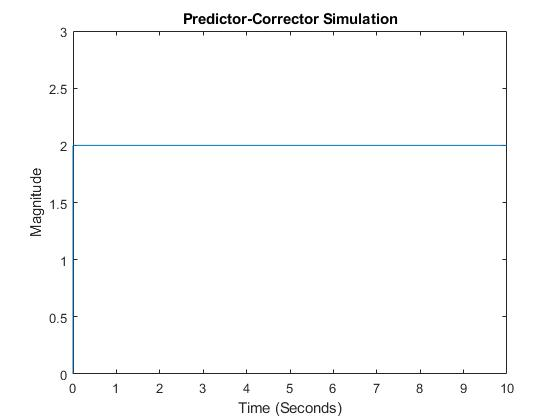
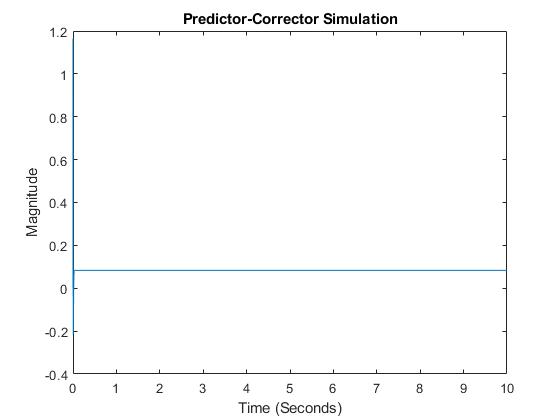
Finished the Midterm

diff --git a/Midterm/p6.m b/Midterm/p6.m
@@ -28,6 +28,9 @@ u = ones(1,N);
 x1c(1) = 1;
 x2c(1) = 1;
 x3c(1) = 1;
+x1p(1) = 1;
+x2p(1) = 1;
+x3p(1) = 1;
 
 for k = 1:N-1
     % Evaluate for prediction %
@@ -40,12 +43,12 @@ for k = 1:N-1
     x3p(k+1) = x3c(k)+T*fx3c(k);
     % Evaluate for correction %
     fx1p(k+1) = -6.5*x1p(k+1)-14.4*x2p(k+1)-12*x3p(k+1)+u(k+1);
-    fx2c(k+1) = x1p(k+1);
-    fx3c(k+1) = x2p(k+1);
+    fx2p(k+1) = x1p(k+1);
+    fx3p(k+1) = x2p(k+1);
     % Correct %
-    x1c(k+1) = x1c(k)+T*fx1p(k);
-    x2c(k+1) = x2c(k)+T*fx2p(k);
-    x3c(k+1) = x3c(k)+T*fx3p(k);
+    x1c(k+1) = x1c(k)+T*fx1p(k+1);
+    x2c(k+1) = x2c(k)+T*fx2p(k+1);
+    x3c(k+1) = x3c(k)+T*fx3p(k+1);
     
     % Output %
     y(k+1) = x2c(k+1)+x3c(k+1);
@@ -55,4 +58,3 @@ plot(t,y)
 title('Predictor-Corrector Simulation')
 xlabel('Time (Seconds)')
 ylabel('Magnitude')
-ylim([0 3])
